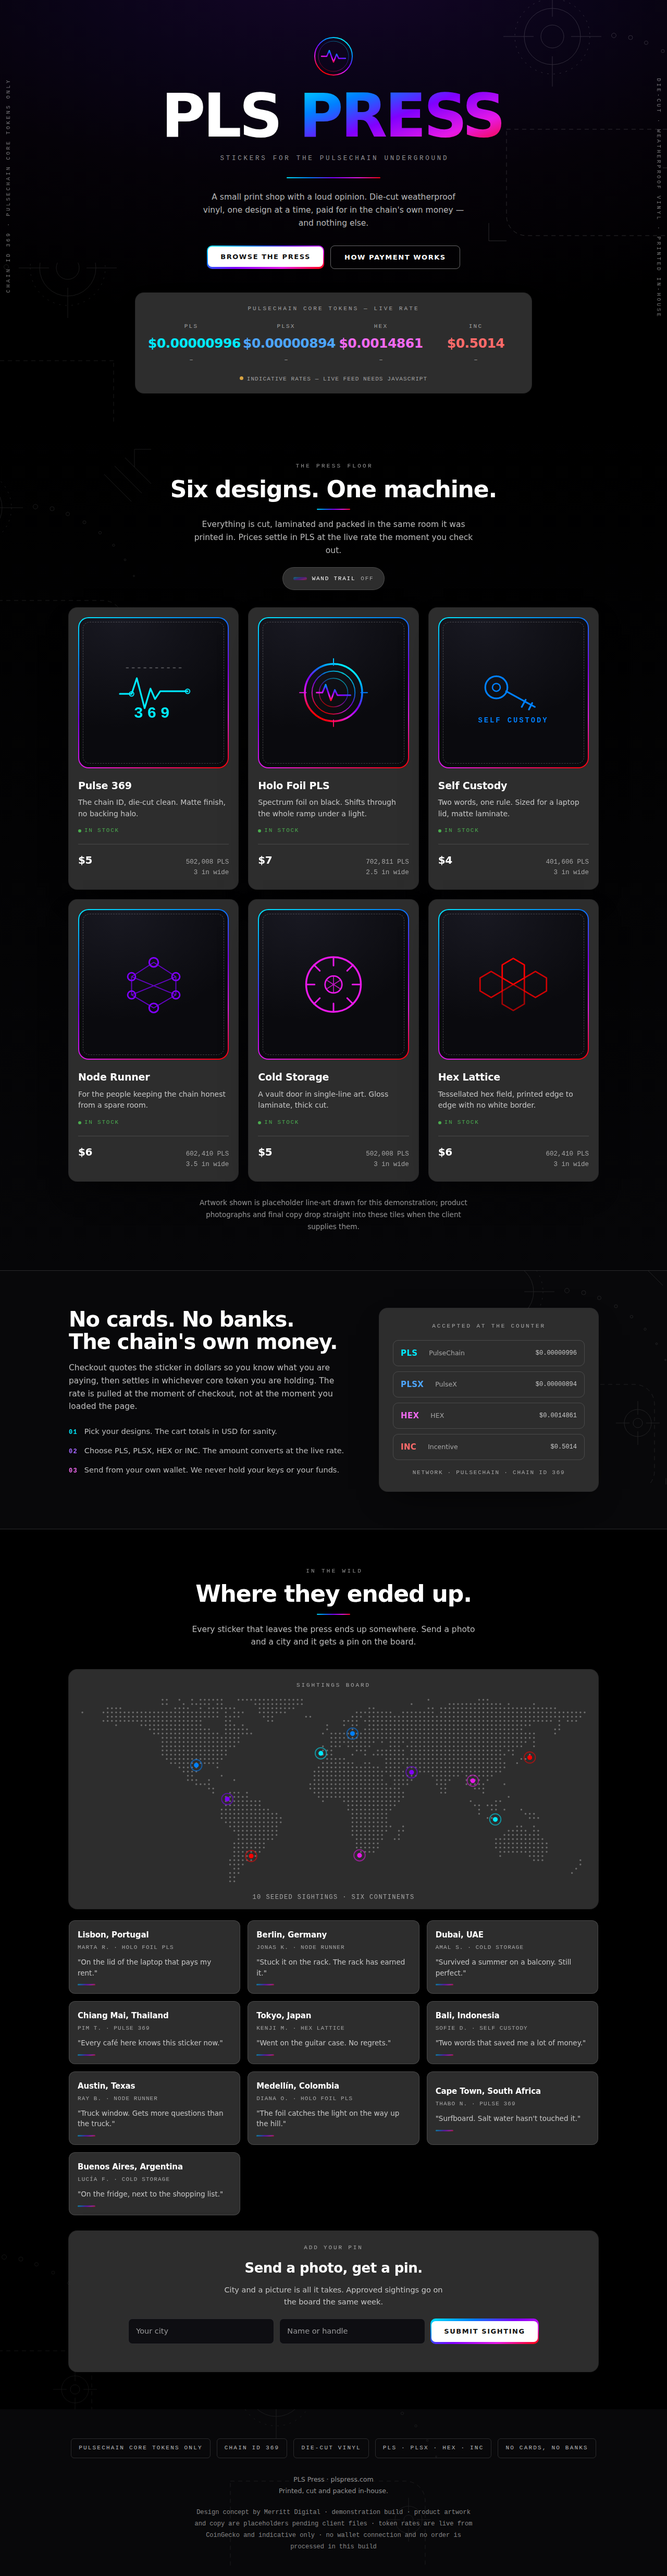
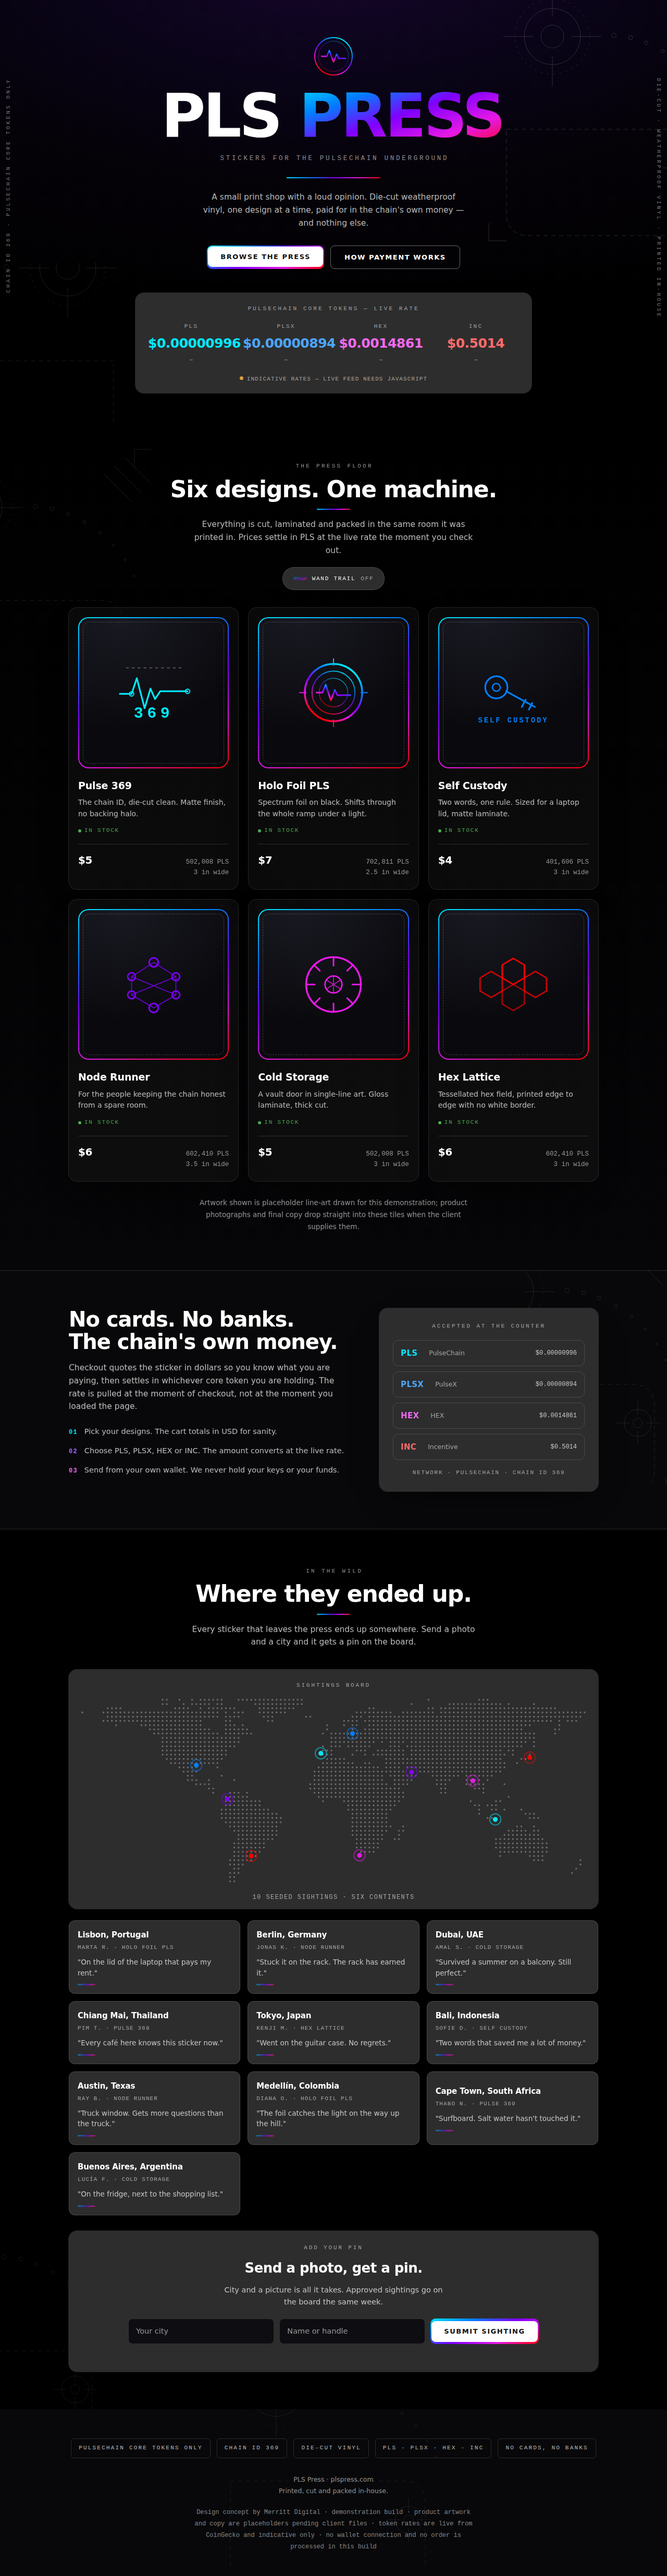
sticker cards 20% opaque
.item background rgba(45,45,45,.2) — the press bed and the wand trail now read
through the card backing. Only the backing is translucent; type and artwork stay
fully opaque, so contrast improves rather than degrades (body copy 7.9:1 -> 10.7:1,
in-stock chip 4.9:1 -> 7.1:1 against the near-black that shows through). The 1px
white ring still carries the card edge.

Gate re-run: 390/834/1280 scrollWidth == viewport, 0 JS errors; LCP 292ms,
CLS 0.0040; JS-off and reduced-motion unchanged; impeccable still 9 documented.

Claude-Session: https://claude.ai/code/session_01ArGmL3ftu9C1ss7BgpknVS

Head: plspress-com

Changed region(s): [[0.0938, 0.2181, 0.9062, 0.4674]]

diff --git a/index.html b/index.html
@@ -120,7 +120,10 @@
 
   .shelf{display:grid;grid-template-columns:repeat(auto-fit,minmax(262px,1fr));gap:20px;
     position:relative;z-index:2}
-  .item{padding:18px 18px 22px;display:flex;flex-direction:column}
+  /* 20% opaque card face — the near-black press bed and the wand trail read through it.
+     Only the backing is translucent; type and artwork stay fully opaque. */
+  .item{padding:18px 18px 22px;display:flex;flex-direction:column;
+    background:rgba(45,45,45,.2)}
   /* the sticker: foil die-cut ring + dashed kiss-cut contour */
   .sticker{background:var(--foil);padding:2px;border-radius:20px;
     transition:transform .2s var(--settle), box-shadow .2s var(--settle)}
